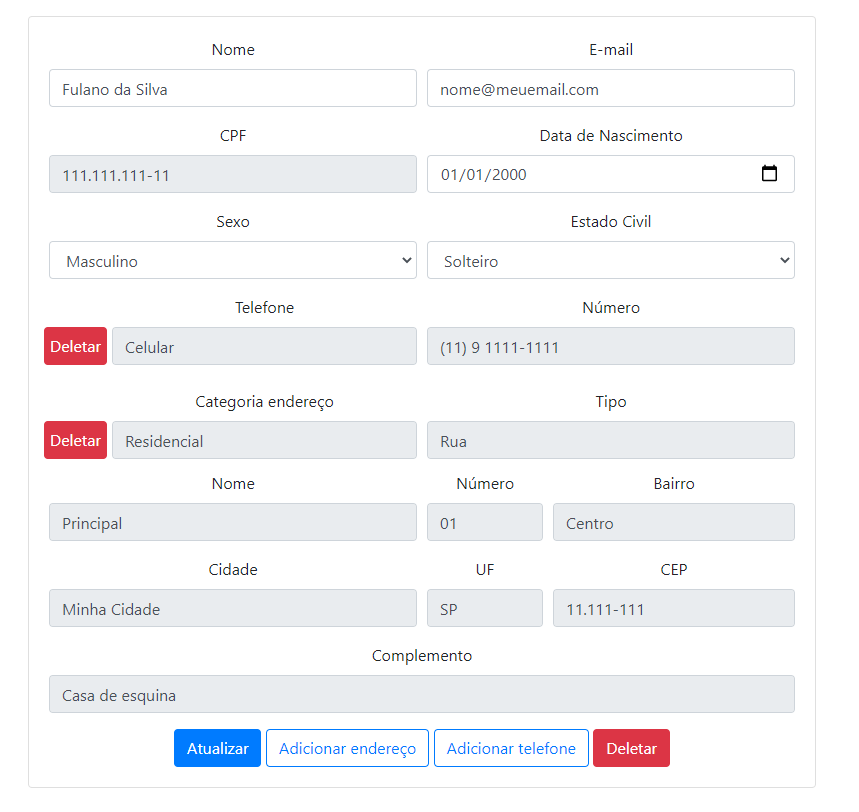
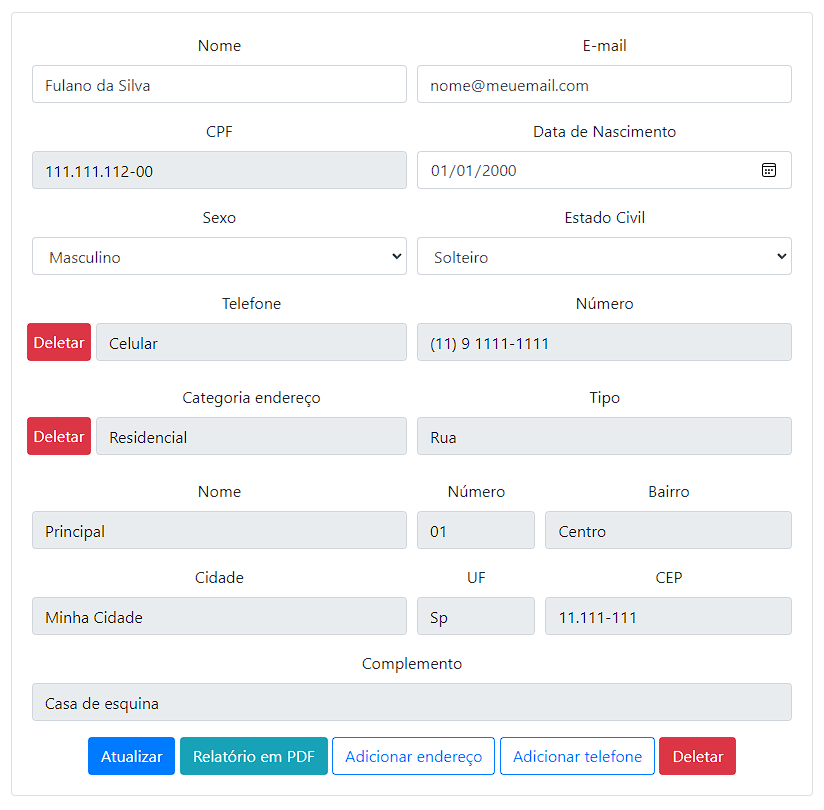
:books: Atualização da documentação

diff --git a/README.md b/README.md
@@ -2,7 +2,7 @@
 
 ### Esse projeto faz parte dos meus estudos sobre programação e teste de software.
 
-Software Web para cadastro de clientes. No seu desenvolvimento foi utlizado URL amigável usando PHP Orientado a Objetos, MVC, banco de dados Postgresql com PDO e CAPTCHA.
+Software Web para cadastro de clientes. No seu desenvolvimento foi utlizado URL amigável usando PHP Orientado a Objetos, MVC, banco de dados Postgresql com PDO, CAPTCHA e PDF.
 
 ![Logo API](./img/tela_login.png)
 
@@ -23,6 +23,7 @@ Software Web para cadastro de clientes. No seu desenvolvimento foi utlizado URL 
 - MVC;
 - PlantUML;
 - hCaptcha;
+- Dompdf 2.0.0
 
 ## Instalação:
 
